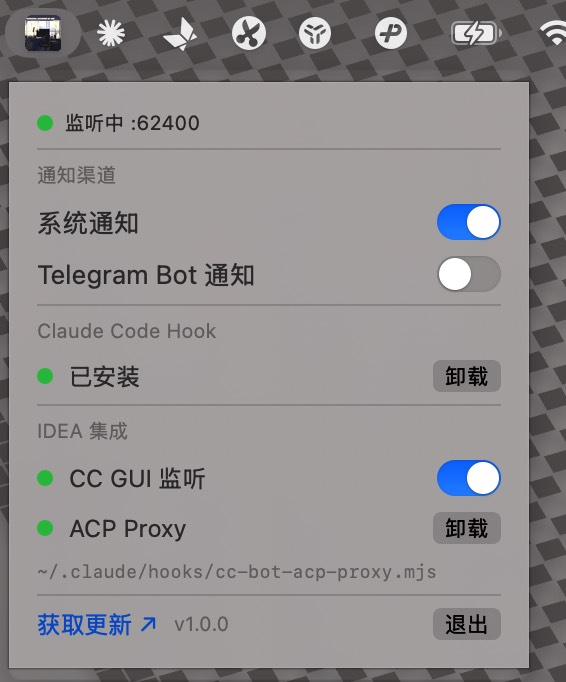
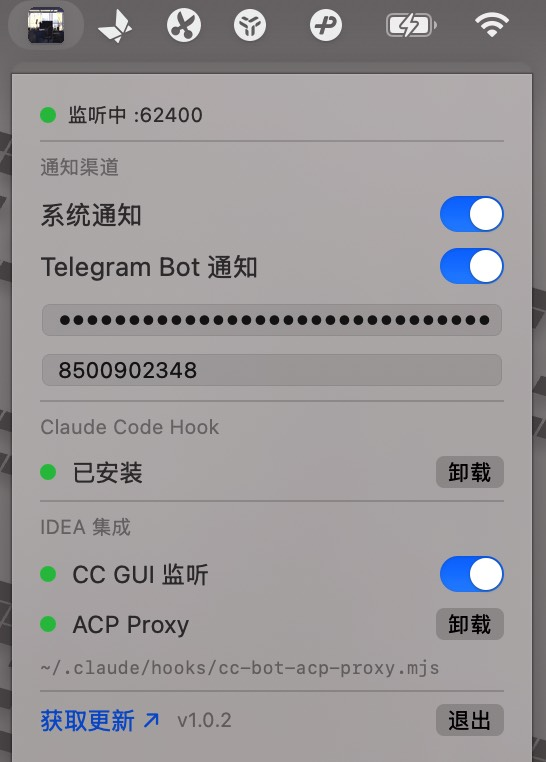
fix: filter CC GUI auto-approved notifications and update README
- Skip notifications for CC GUI auto-approved operations
- Use response-file detection to filter auto-approved notifications
- Update README screenshots

Changed region(s): [[0.0, 0.0, 1.0, 1.0], [0.0623, 0.4619, 0.4048, 0.6466]]

diff --git a/CCBot/Services/CCGUIWatcher.swift b/CCBot/Services/CCGUIWatcher.swift
@@ -20,7 +20,15 @@ private final class DirectoryMonitor: @unchecked Sendable {
     private let dir: String
     private let seenLock = NSLock()
     private var seenFiles: Set<String>
+    /// Permission requests awaiting notification — cancelled if a response file appears.
+    private var pendingNotifications: [String: PermissionRequestInfo] = [:]
     let onNewRequests: @Sendable ([PermissionRequestInfo]) -> Void
+
+    /// Grace period before firing a notification. Gives CC GUI time to
+    /// auto-approve and produce a response file that we can detect.
+    /// Java PermissionRequestWatcher polls every 500ms; auto-approved
+    /// responses appear within ~600ms and are consumed by Node.js ~100ms later.
+    private static let autoApproveGracePeriod: TimeInterval = 1.5
 
     init(dir: String, initialFiles: Set<String>, onNewRequests: @escaping @Sendable ([PermissionRequestInfo]) -> Void) {
         self.dir = dir
@@ -31,19 +39,33 @@ private final class DirectoryMonitor: @unchecked Sendable {
     func scan() {
         guard let files = try? FileManager.default.contentsOfDirectory(atPath: dir) else { return }
 
-        var newRequests: [PermissionRequestInfo] = []
+        var immediateNotifications: [PermissionRequestInfo] = []
 
         seenLock.lock()
         for file in files {
             guard !seenFiles.contains(file) else { continue }
             seenFiles.insert(file)
 
-            let isRequest = file.hasSuffix(".json") && (
-                file.hasPrefix("request-") ||
-                (file.hasPrefix("ask-user-question-") && !file.contains("-response-")) ||
-                (file.hasPrefix("plan-approval-") && !file.contains("-response-"))
-            )
-            guard isRequest else { continue }
+            guard file.hasSuffix(".json") else { continue }
+
+            // Detect response files → cancel matching pending notification.
+            // Auto-approved requests produce a response-*.json very quickly;
+            // kqueue fires when it's created, and this scan catches it before
+            // Node.js consumes it (~100ms window).
+            if file.hasPrefix("response-") {
+                let requestFile = "request-" + file.dropFirst("response-".count)
+                if pendingNotifications.removeValue(forKey: requestFile) != nil {
+                    log.debug("Auto-approved (response detected), skipping notification: \(requestFile)")
+                }
+                continue
+            }
+
+            // Detect request files
+            let isAskQuestion = file.hasPrefix("ask-user-question-") && !file.contains("-response-")
+            let isPlanApproval = file.hasPrefix("plan-approval-") && !file.contains("-response-")
+            let isPermissionRequest = file.hasPrefix("request-")
+
+            guard isAskQuestion || isPlanApproval || isPermissionRequest else { continue }
 
             let path = (dir as NSString).appendingPathComponent(file)
             guard let data = FileManager.default.contents(atPath: path),
@@ -53,16 +75,35 @@ private final class DirectoryMonitor: @unchecked Sendable {
             let toolName = json["toolName"] as? String ?? "unknown"
             let cwd = json["cwd"] as? String ?? ""
             let project = cwd.split(separator: "/").last.map(String.init) ?? "unknown"
+            let info = PermissionRequestInfo(toolName: toolName, project: project, file: file)
 
-            log.notice("CC GUI permission request: \(toolName) in \(project)")
-            newRequests.append(PermissionRequestInfo(toolName: toolName, project: project, file: file))
+            log.notice("CC GUI permission request detected: \(toolName) in \(project)")
+
+            if isAskQuestion || isPlanApproval {
+                // These always require user interaction — notify immediately
+                immediateNotifications.append(info)
+            } else {
+                // Permission requests might be auto-approved. Defer notification;
+                // if a response-*.json appears before the grace period expires
+                // (detected in a subsequent scan), the notification is cancelled.
+                pendingNotifications[file] = info
+                let callback = self.onNewRequests
+                DispatchQueue.global().asyncAfter(deadline: .now() + Self.autoApproveGracePeriod) { [self] in
+                    seenLock.lock()
+                    let pending = pendingNotifications.removeValue(forKey: file)
+                    seenLock.unlock()
+                    if let pending {
+                        callback([pending])
+                    }
+                }
+            }
         }
         // Prune: remove entries for files that no longer exist
         seenFiles = seenFiles.filter { files.contains($0) }
         seenLock.unlock()
 
-        if !newRequests.isEmpty {
-            onNewRequests(newRequests)
+        if !immediateNotifications.isEmpty {
+            onNewRequests(immediateNotifications)
         }
     }
 }

diff --git a/docs/ccgui-auto-approve-filter.md b/docs/ccgui-auto-approve-filter.md
@@ -1,0 +1,106 @@
+# CC GUI 自动批准操作过滤
+
+## 背景
+
+cc-bot 的 `CCGUIWatcher` 监听 `$TMPDIR/claude-permission/` 目录中的 request 文件来检测权限请求。但用户反馈：部分收到的通知实际上是 cc-gui **自动批准**的操作，并不需要用户确认。
+
+## 根因分析
+
+通过阅读 [jetbrains-cc-gui](https://github.com/zhukunpenglinyutong/jetbrains-cc-gui) 源码，发现权限判断分为 **两个阶段**：
+
+### 第一阶段：Node.js 端直接放行（不写文件）
+
+`ai-bridge/services/claude/permission-mode.js` 中的 `shouldAutoApproveTool()` 在以下情况直接返回 `approve`，**不产生任何 request 文件**：
+
+| 模式 | 自动放行的工具 |
+|------|--------------|
+| 所有模式 | `AUTO_ALLOW_TOOLS`：TaskCreate/Get/Update/List、CronCreate/Delete/List、EnterPlanMode 等 |
+| `bypassPermissions` | 所有工具（除 AskUserQuestion） |
+| `acceptEdits` | READ_ONLY_TOOLS（Glob/Grep/Read/WebFetch 等）+ EDIT_TOOLS（Edit/Write）+ 文件操作工具 |
+
+这些操作 cc-bot 本来就看不到，不存在问题。
+
+### 第二阶段：文件 IPC → Java 端可能自动批准（问题所在）
+
+未被第一阶段放行的工具会调用 `requestPermissionFromJava()`，写入 `request-*.json` 文件。Java 端 `PermissionService.handlePermissionRequest()` 处理时：
+
+```
+1. 检查 tool-level 记忆（用户之前选了 "Allow and don't ask again"）
+   → 命中：自动批准，写 response，删除 request，不弹对话框
+2. 检查 parameter-level 记忆
+   → 命中：同上
+3. 都没命中 → 弹出权限对话框，等待用户操作
+```
+
+**典型场景**：在 `default` 模式下，用户对 `Read` 工具点过 "Allow always" 后，后续每次 `Read` 调用仍会写 request 文件（被 CCGUIWatcher 捕获并发通知），但 cc-gui 直接从内存自动批准了。
+
+### 时序分析
+
+cc-gui **两种情况都会删除 request 文件**，不能靠检查 request 文件是否存在来区分：
+
+```
+自动批准路径：
+t=0ms       Node.js 写入 request-X.json
+t=0~500ms   Java PermissionRequestWatcher 轮询（间隔 500ms）
+t=~500ms    Java 读取文件，内存命中 → 写入 response-X.json → 删除 request-X.json
+t=~600ms    Node.js 轮询（间隔 100ms）发现 response → 读取 → 删除 response-X.json
+
+弹对话框路径：
+t=0ms       Node.js 写入 request-X.json
+t=0~500ms   Java PermissionRequestWatcher 轮询
+t=~500ms    Java 读取文件，无记忆命中 → 删除 request-X.json → 弹出对话框
+t=???       用户操作后 → Java 写入 response-X.json
+t=???+100ms Node.js 发现 response → 读取 → 删除
+```
+
+**关键区别**：自动批准时 `response-*.json` 在 request 被处理后**立即出现**（~500ms），而弹对话框时 response 要等用户操作后才出现（秒级到分钟级）。
+
+## 解决方案
+
+利用 kqueue 事件驱动 + response 文件检测的**双信号机制**：
+
+1. **检测到 `request-*.json`** → 存入 `pendingNotifications` 字典，启动 1.5 秒定时器
+2. **检测到 `response-*.json`**（kqueue 因 Java 写入 response 触发 scan）→ 通过文件名匹配对应 request（`response-` 前缀替换为 `request-`），从 `pendingNotifications` 中移除 → **取消通知**
+3. **1.5 秒定时器到期** → 检查 request 是否仍在 `pendingNotifications` 中，如果在则发通知（说明没有被 response 取消，真正需要用户确认）
+4. **`ask-user-question-*` / `plan-approval-*`** → 始终需要用户交互，**立即通知**，不走延迟逻辑
+
+response 文件从 Java 写入到 Node.js 消费约有 **~100ms 窗口**，kqueue 在 Java 写入时触发 scan，此时 Node.js 尚未删除 response 文件，因此能可靠地捕获到。
+
+### 代码变更
+
+文件：`CCBot/Services/CCGUIWatcher.swift` — `DirectoryMonitor`
+
+```swift
+private var pendingNotifications: [String: PermissionRequestInfo] = [:]
+private static let autoApproveGracePeriod: TimeInterval = 1.5
+
+func scan() {
+    // ...
+    for file in files {
+        // 检测 response 文件 → 取消匹配的待发通知
+        if file.hasPrefix("response-") {
+            let requestFile = "request-" + file.dropFirst("response-".count)
+            pendingNotifications.removeValue(forKey: requestFile)
+            continue
+        }
+
+        // ask-user-question / plan-approval → 立即通知
+        // request-* → 存入 pendingNotifications，延迟 1.5s
+        if isPermissionRequest {
+            pendingNotifications[file] = info
+            DispatchQueue.global().asyncAfter(deadline: .now() + 1.5) {
+                // 如果还在 pending 中（未被 response 取消），则通知
+                if let pending = pendingNotifications.removeValue(forKey: file) {
+                    callback([pending])
+                }
+            }
+        }
+    }
+}
+```
+
+### 影响范围
+
+- 真正需要确认的 `request-*`：通知延迟 1.5 秒
+- 自动批准的 `request-*`：通过 response 文件检测取消通知，不再发送
+- `ask-user-question-*` / `plan-approval-*`：立即通知，无延迟
